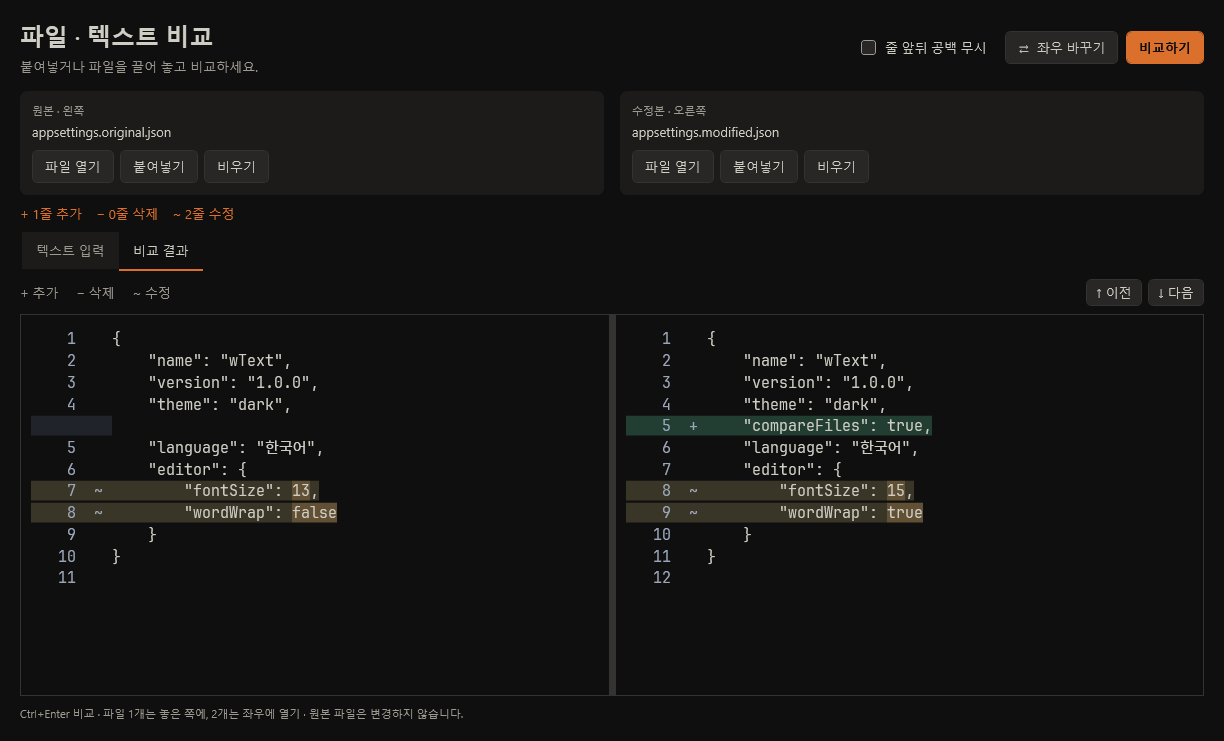
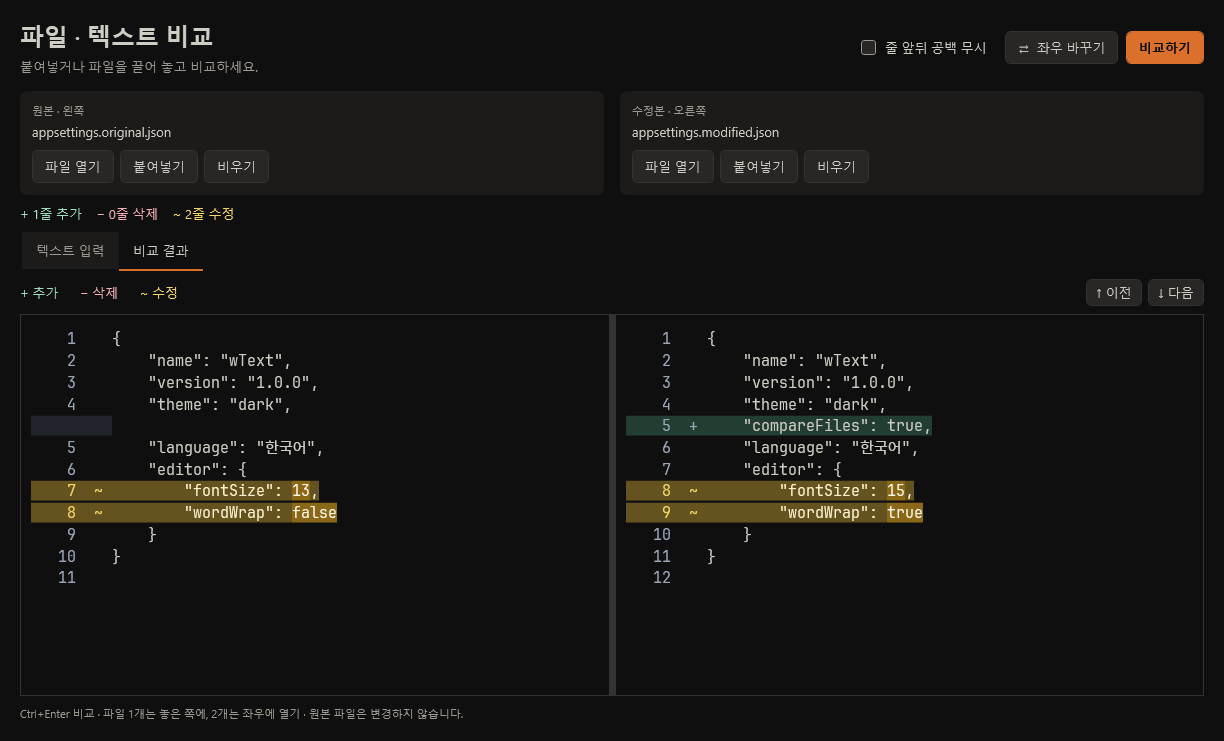
Improve comparison colors and prepare version 1.1.1

diff --git a/src/WookText.App/CompareWindow.xaml b/src/WookText.App/CompareWindow.xaml
@@ -3,6 +3,11 @@
         xmlns:x="http://schemas.microsoft.com/winfx/2006/xaml"
         Title="파일 · 텍스트 비교 — wText" Style="{StaticResource {x:Type Window}}" Width="1240" Height="780" MinWidth="940" MinHeight="560" WindowStartupLocation="CenterOwner"
         AllowDrop="True" PreviewDragOver="OnFilesDragOver" PreviewDrop="OnFilesDropped">
+  <Window.Resources>
+    <SolidColorBrush x:Key="DiffAdded" Color="#9DE0BF" />
+    <SolidColorBrush x:Key="DiffDeleted" Color="#F2B1B4" />
+    <SolidColorBrush x:Key="DiffModified" Color="#F4D66A" />
+  </Window.Resources>
   <Grid Margin="20" Background="{StaticResource Canvas}">
     <Grid.RowDefinitions><RowDefinition Height="Auto" /><RowDefinition Height="Auto" /><RowDefinition Height="Auto" /><RowDefinition Height="*" /><RowDefinition Height="Auto" /></Grid.RowDefinitions>
     <DockPanel Margin="0,0,0,16">
@@ -66,7 +71,11 @@
               <Button x:Name="PreviousButton" Content="↑ 이전" Click="OnPreviousChange" Padding="9,4" Margin="0,0,6,0" ToolTip="Shift+F7" />
               <Button x:Name="NextButton" Content="↓ 다음" Click="OnNextChange" Padding="9,4" ToolTip="F7" />
             </StackPanel>
-            <TextBlock Text="+ 추가     − 삭제     ~ 수정" Foreground="{StaticResource Muted}" VerticalAlignment="Center" />
+            <TextBlock VerticalAlignment="Center">
+              <Run Text="+ 추가" Foreground="{StaticResource DiffAdded}" />
+              <Run Text="     " /><Run Text="− 삭제" Foreground="{StaticResource DiffDeleted}" />
+              <Run Text="     " /><Run Text="~ 수정" Foreground="{StaticResource DiffModified}" />
+            </TextBlock>
           </DockPanel>
           <Grid Grid.Row="1">
             <Grid.ColumnDefinitions><ColumnDefinition Width="*" MinWidth="200" /><ColumnDefinition Width="5" /><ColumnDefinition Width="*" MinWidth="200" /></Grid.ColumnDefinitions>

diff --git a/src/WookText.App/CompareWindow.xaml.cs b/src/WookText.App/CompareWindow.xaml.cs
@@ -4,7 +4,9 @@ using System.Text;
 using System.Windows;
 using System.Windows.Controls;
 using System.Windows.Controls.Primitives;
+using System.Windows.Documents;
 using System.Windows.Input;
+using System.Windows.Media;
 using DiffPlex.DiffBuilder.Model;
 using ICSharpCode.AvalonEdit;
 using Microsoft.Win32;
@@ -170,12 +172,18 @@ public partial class CompareWindow : Window
             if (changed && !previousLineChanged) _changeLines.Add(i + 1);
             previousLineChanged = changed;
         }
-        Summary.Text = result.ExactMatch ? "텍스트 내용이 같습니다." :
-            result.Added + result.Deleted + result.Modified == 0 ? "비교 옵션 기준으로 같은 내용입니다." :
-            $"+ {result.Added:N0}줄 추가    − {result.Deleted:N0}줄 삭제    ~ {result.Modified:N0}줄 수정";
-        if (result.LineEndingsDiffer) Summary.Text += "  · 줄바꿈 차이 있음";
+        Summary.Inlines.Clear();
+        if (result.ExactMatch) Summary.Text = "텍스트 내용이 같습니다.";
+        else if (result.Added + result.Deleted + result.Modified == 0) Summary.Text = "비교 옵션 기준으로 같은 내용입니다.";
+        else
+        {
+            Summary.Inlines.Add(new Run($"+ {result.Added:N0}줄 추가") { Foreground = (Brush)FindResource("DiffAdded") });
+            Summary.Inlines.Add(new Run($"    − {result.Deleted:N0}줄 삭제") { Foreground = (Brush)FindResource("DiffDeleted") });
+            Summary.Inlines.Add(new Run($"    ~ {result.Modified:N0}줄 수정") { Foreground = (Brush)FindResource("DiffModified") });
+        }
+        if (result.LineEndingsDiffer) Summary.Inlines.Add(new Run("  · 줄바꿈 차이 있음"));
         if (_left is not null && _right is not null && leftText == _left.Text && rightText == _right.Text && _left.Encoding != _right.Encoding)
-            Summary.Text += "  · 인코딩 차이 있음";
+            Summary.Inlines.Add(new Run("  · 인코딩 차이 있음"));
         ResultTab.IsEnabled = true;
         ResultTab.IsSelected = true;
         _leftEditor.ScrollToHome();

diff --git a/src/WookText.App/DiffLineColorizer.cs b/src/WookText.App/DiffLineColorizer.cs
@@ -15,21 +15,27 @@ public sealed class DiffLineColorizer(IReadOnlyList<DiffPiece> pieces) : Documen
         {
             ChangeType.Inserted => "#223E33",
             ChangeType.Deleted => "#492B33",
-            ChangeType.Modified => "#393627",
+            ChangeType.Modified => "#64531E",
             ChangeType.Imaginary => "#20232A",
             _ => null
         };
         if (background is not null)
             ChangeLinePart(line.Offset, line.EndOffset, element => element.TextRunProperties.SetBackgroundBrush(EditorFactory.Brush(background)));
+        if (piece.Type == ChangeType.Modified)
+            ChangeLinePart(line.Offset, line.EndOffset, element => element.TextRunProperties.SetForegroundBrush(EditorFactory.Brush("#FFF4CF")));
         ChangeLinePart(line.Offset, Math.Min(line.EndOffset, line.Offset + PrefixLength),
-            element => element.TextRunProperties.SetForegroundBrush(EditorFactory.Brush("#9BA6B8")));
+            element => element.TextRunProperties.SetForegroundBrush(EditorFactory.Brush(piece.Type == ChangeType.Modified ? "#F4D66A" : "#9BA6B8")));
         int offset = line.Offset + PrefixLength;
         foreach (DiffPiece subpiece in piece.SubPieces)
         {
             // DiffPlex uses null text for imaginary word-alignment pieces.
             int end = Math.Min(offset + (subpiece.Text?.Length ?? 0), line.EndOffset);
             if (end > offset && subpiece.Type is ChangeType.Inserted or ChangeType.Deleted or ChangeType.Modified)
-                ChangeLinePart(offset, end, element => element.TextRunProperties.SetBackgroundBrush(EditorFactory.Brush("#615034")));
+                ChangeLinePart(offset, end, element =>
+                {
+                    element.TextRunProperties.SetBackgroundBrush(EditorFactory.Brush("#8A6818"));
+                    element.TextRunProperties.SetForegroundBrush(EditorFactory.Brush("#FFF9E8"));
+                });
             offset = end;
         }
     }

diff --git a/CHANGELOG.md b/CHANGELOG.md
@@ -1,5 +1,14 @@
 # Changelog
 
+## 1.1.1 — 2026-10-11
+
+- 비교창 상단의 변경 줄 수와 결과 범례를 추가=초록, 삭제=빨강, 수정=노랑으로 통일.
+- 수정 줄의 노란 배경을 더 진하게 조정하고 글자·줄 번호 대비를 강화. 변경된 단어는 한 단계 더 밝은 배경으로 구분.
+- 1.1.0에서 준비한 스크롤 수정, 붙여넣기·직접 입력·파일 드롭 비교를 포함하여 공개 배포.
+- README 비교 화면과 사용 안내 갱신. 외부 의존성 추가 없음.
+- 검증: Release 빌드 경고·오류 0개, 단위 테스트 90개, 전체 WPF 회귀 검사와 실제 비교 화면 확인, 코드 형식·공백 검사 통과.
+- 설치 검증: 1.0.2 → 1.1.1 업그레이드, 설치본 WPF 검사, 바로가기 선택별 재설치·신규 설치·제거와 사용자 파일 보존 통과.
+
 ## 1.1.0 — 2026-10-11 (배포 준비)
 
 - 비교창 스크롤이 이전 위치로 되돌아가거나 좌우가 어긋나는 문제 수정. 실제 텍스트 뷰 위치로 즉시 동기화하며, 길이가 다른 줄의 가로 스크롤과 문서 끝의 정렬도 유지.
